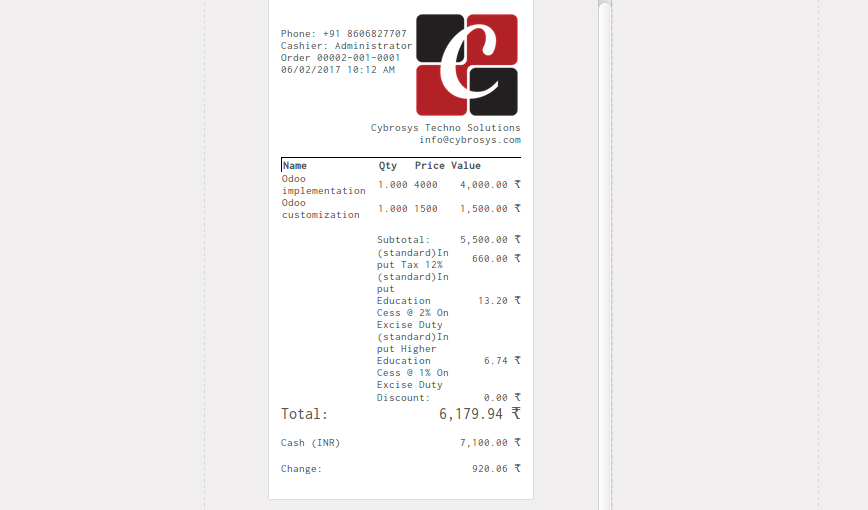
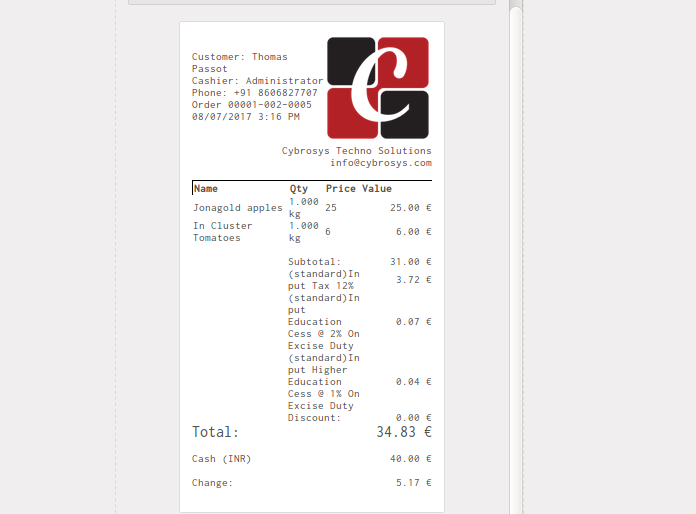
[ADD] New Field: Customer Added

diff --git a/pos_ticket/static/description/index.html b/pos_ticket/static/description/index.html
@@ -2,7 +2,7 @@
      <div class="oe_row oe_spaced">
         <h2 class="oe_slogan">Company Logo In POS Receipt</h2>
         <h3 class="oe_slogan">Company logo and info will be displayed in POS receipt</h3>
-         <h4 class="oe_slogan">Author : Cybrosys Techno Solutions , www.cybrosys.com</h4>
+        <h4 class="oe_slogan">Author : Cybrosys Techno Solutions , www.cybrosys.com</h4>
     </div>
 </section>
 <section class="oe_container">
@@ -23,7 +23,7 @@
         <h4 class="oe_slogan">POS Receipt</h4>
         <div class="oe_span12">
             <p class='oe_mt32'>
-                &#x261B; POS receipt with company logo and info<br>
+                &#x261B; POS receipt with company logo, company info and customer name<br>
             </p>
             <div class="oe_row_img oe_centered">
                 <img class="oe_picture oe_screenshot" src="pos_ticket.png">
@@ -37,13 +37,13 @@
 		<div class="oe_slogan" style="margin-top:10px !important;">
             <div>
 				<a  class="btn btn-primary btn-lg mt8"
-				style="color: #FFFFFF !important;border-radius: 0;" href="http://www.cybrosys.com"><i
+				style="color: #FFFFFF !important;border-radius: 0;" href="https://www.cybrosys.com"><i
 				class="fa fa-envelope"></i> Email </a> <a
 				class="btn btn-primary btn-lg mt8" style="color: #FFFFFF !important;border-radius: 0;"
-				href="http://www.cybrosys.com/contact/"><i
+				href="https://www.cybrosys.com/contact/"><i
 				class="fa fa-phone"></i> Contact Us </a> <a
 				class="btn btn-primary btn-lg mt8" style="color: #FFFFFF !important;border-radius: 0;"
-				href="http://www.cybrosys.com/odoo-customization-and-installation/"><i
+				href="https://www.cybrosys.com/odoo-customization-and-installation/"><i
 				class="fa fa-check-square"></i> Request Customization </a>
 	        </div>
             <br>

diff --git a/pos_ticket/README.rst b/pos_ticket/README.rst
@@ -1,7 +1,8 @@
 POS Ticket v10
 ==============
 
-This module will add company logo & info in POS receipt
+This module will add company logo & company info in POS receipt. Also it will print the customer name
+in the receipt if the customer is selected
 
 Credits
 =======
